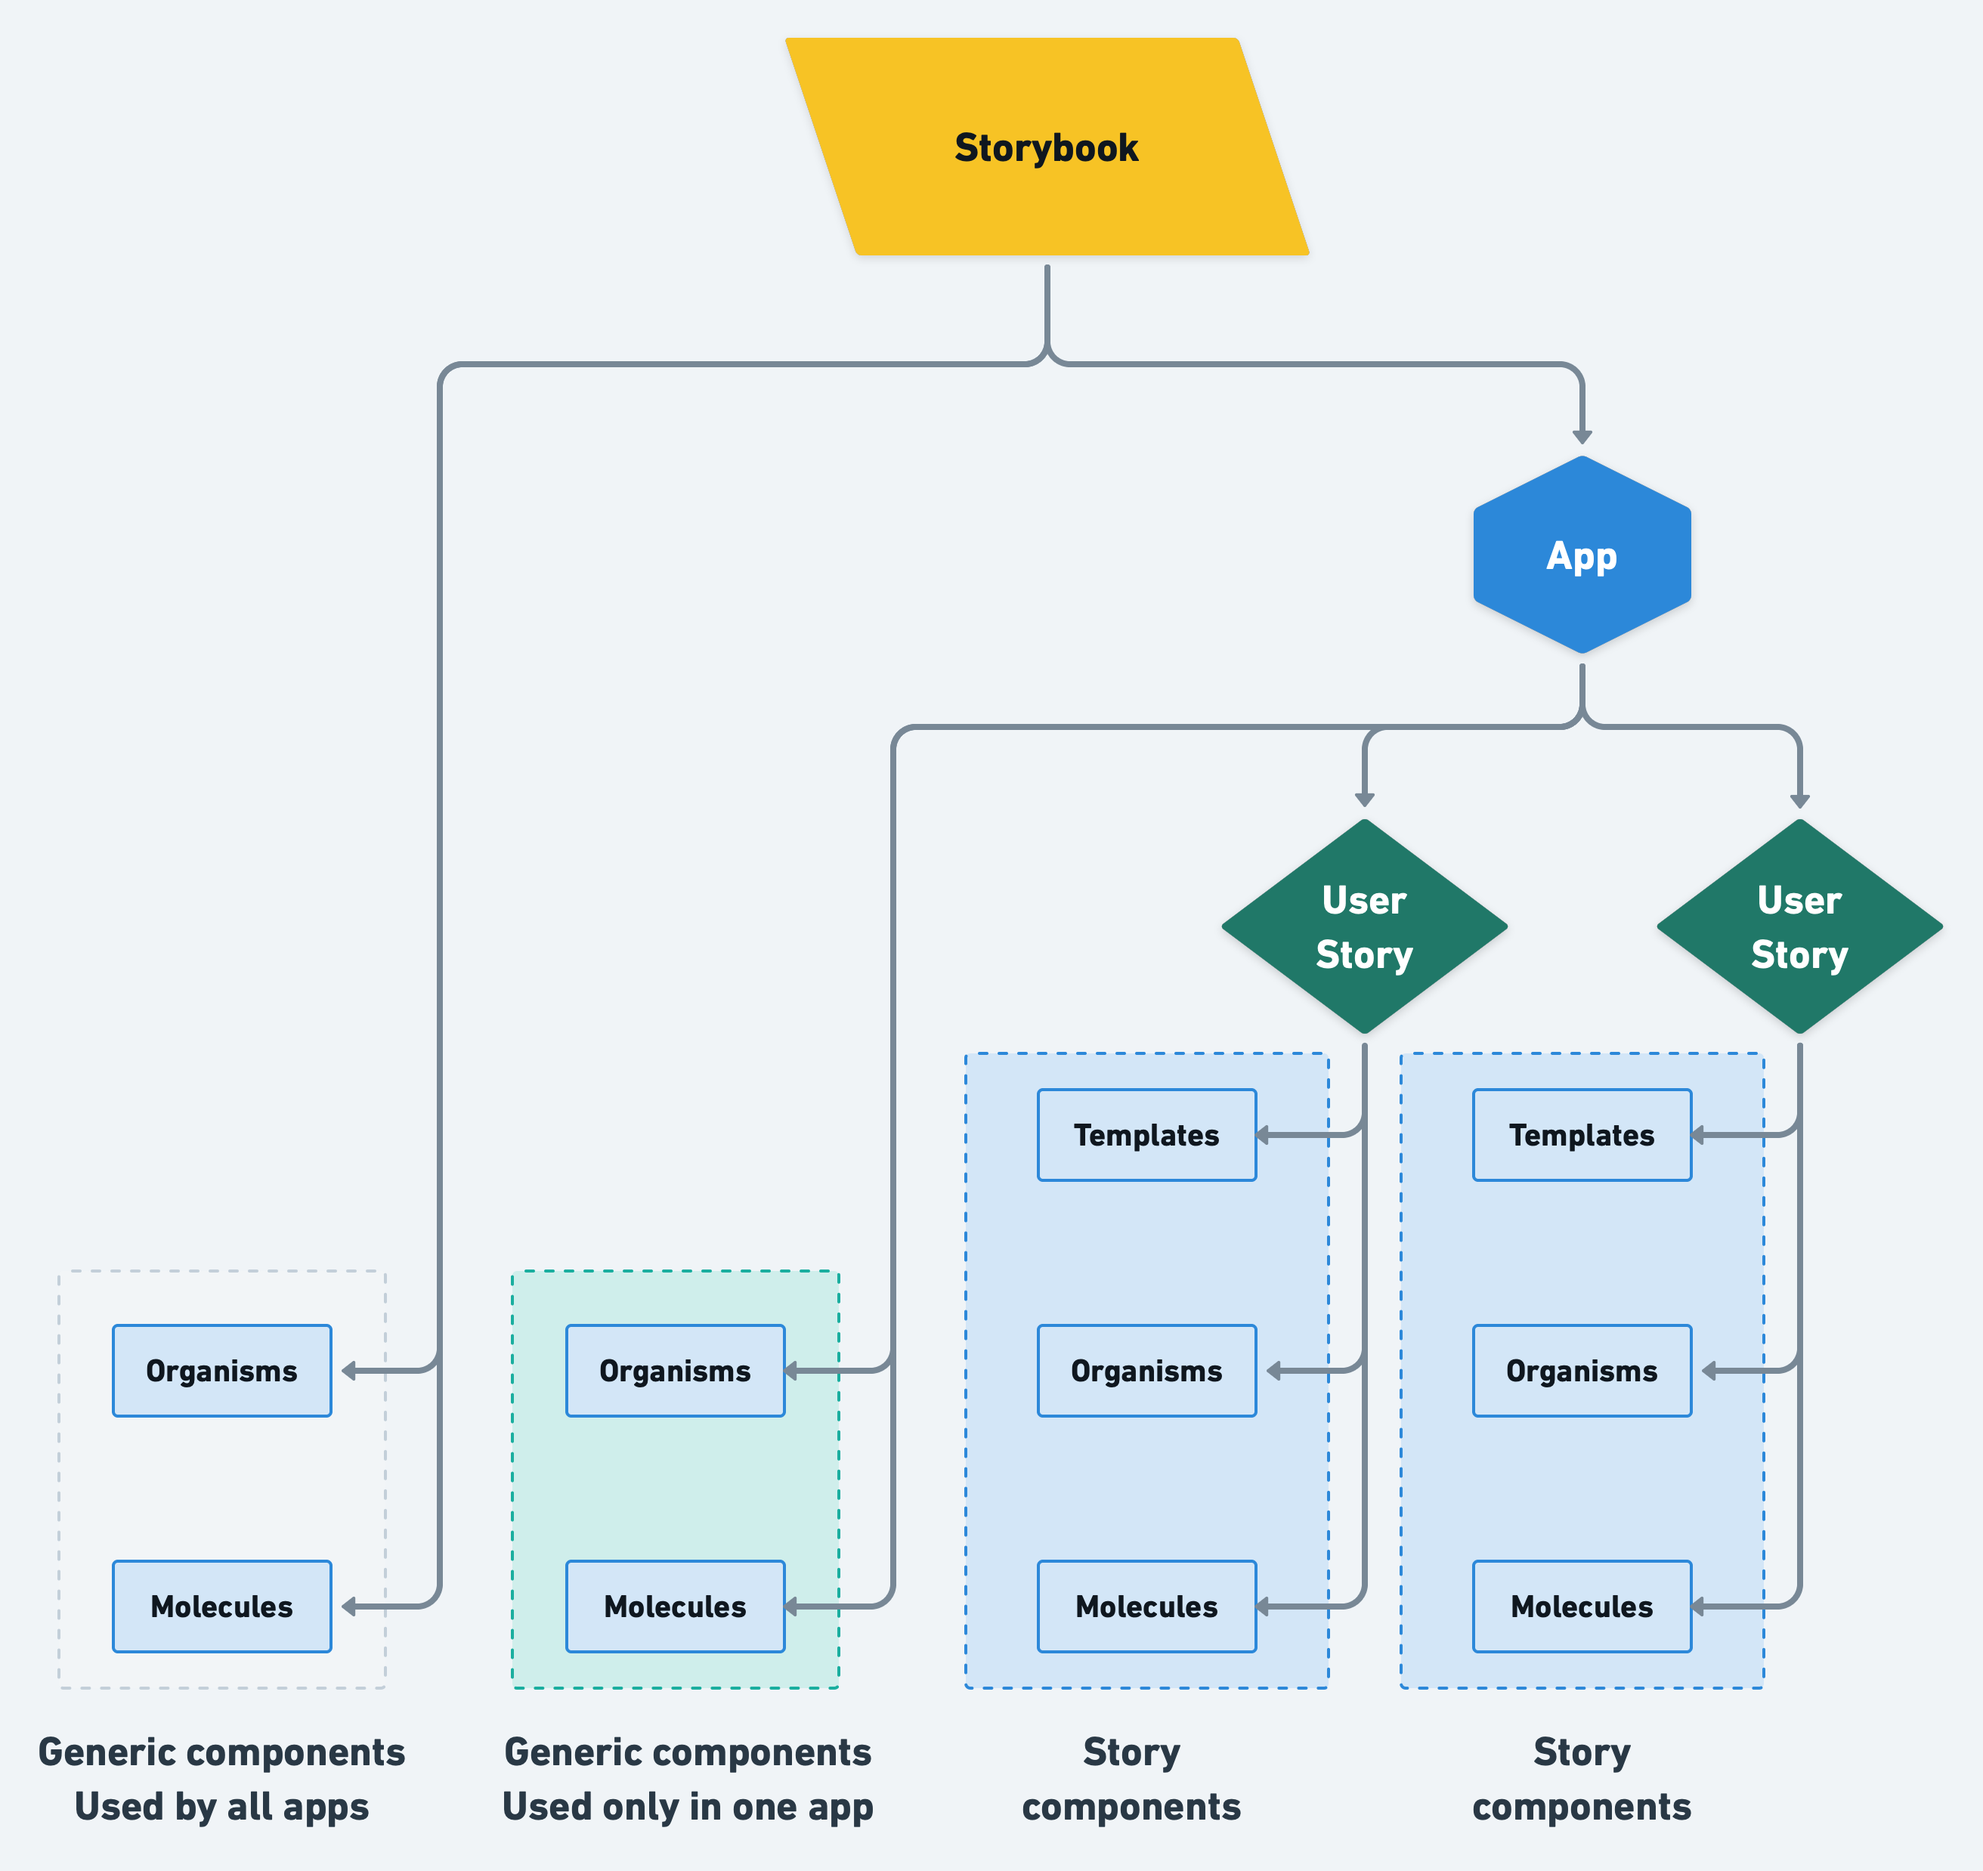
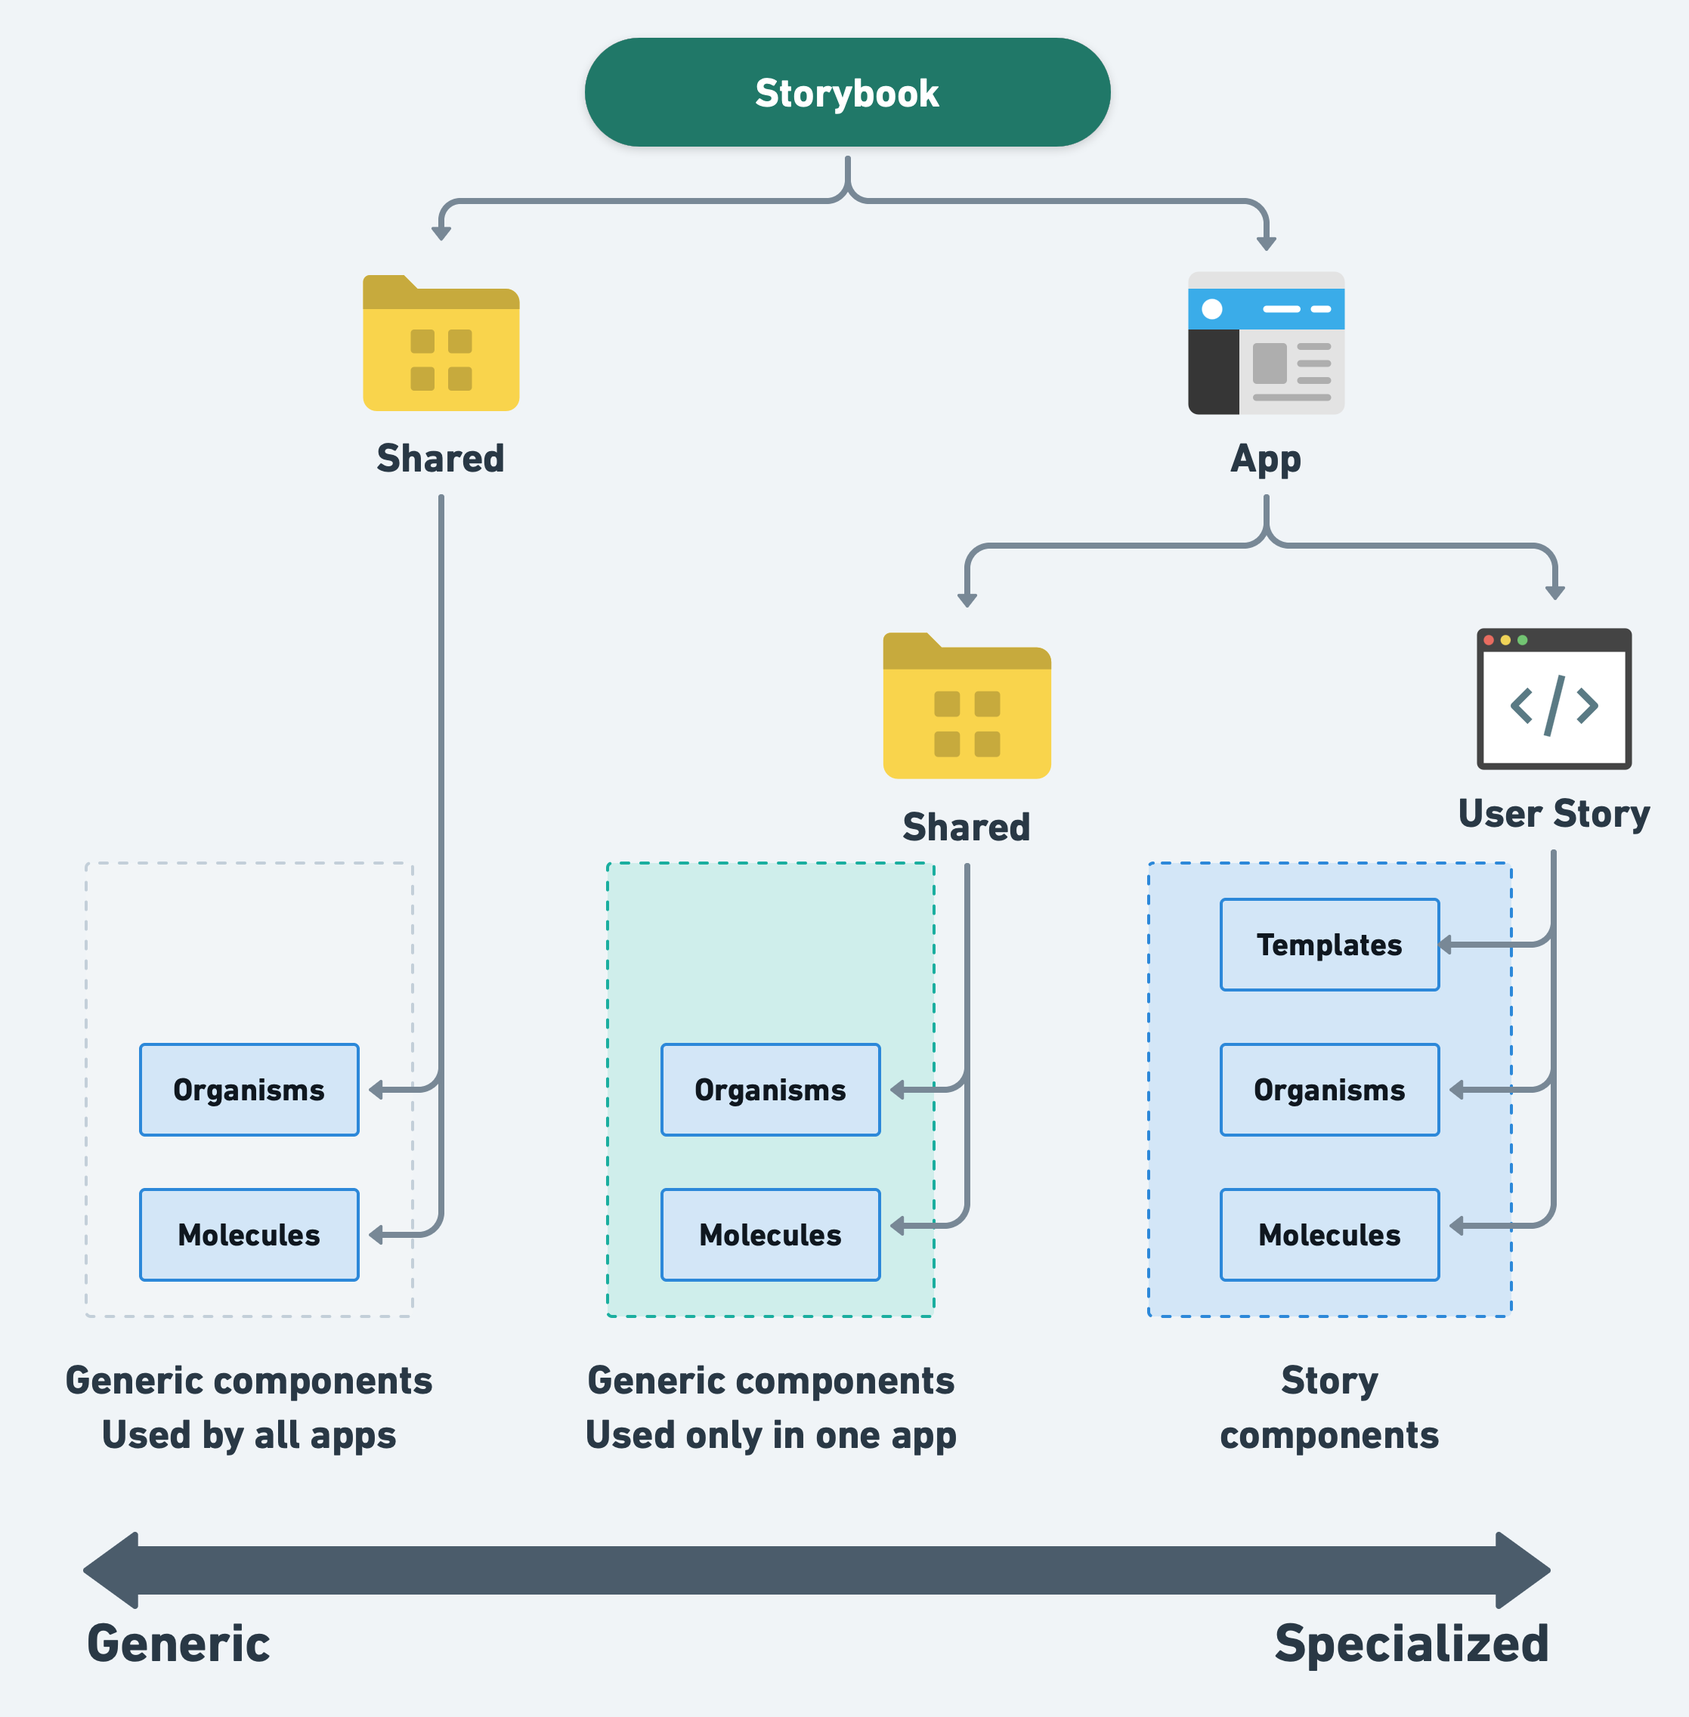
storybook documentation

diff --git a/docs/storybook.md b/docs/storybook.md
@@ -1,9 +1,176 @@
 # ⚡ Storybook
 
-We can use storybook to help both our developers and the product team.
+## 🔶 Why using storybook?
 
--
--
--
+Storybook is a great tool. We can use it to help both developers and our product team.
+
+### 🧿 Better visibility on existing features
+
+It's easier for the dev team to find out if a component already exists and if it fits the new use case we need to implement. Developers can also better understand how a component is meant to be used and if edge cases are taken into account.
+
+### 🧿 Giving visibility to the product team
+
+We can use storybook to demonstrate each part of our work to the product team. The idea is to break down user stories in milestones that can be independently validated.
+
+Let's take an example:
+I was given a signup feature to deliver. We have a few questions to address during the conception phase:
+
+#### 📕 Interactions with our backend(s)
+
+> Which endpoints will be called and what will be their input and output?
+
+#### 📕 Components tree
+
+> Following the [atomic design](./frontend-architecture.md) architecture, what will our component tree look like?
+>
+> ❇ Will we use contexts? Will we use atomic state? Why?
+>
+> ❇ Will we use some generic components or shared hooks, and if so which ones?
+>
+> ❇ Will we need local state? At which level of the tree?
+>
+> ❇ What will be the level of genericity or specialization of each component or hook?
+>
+> > Generic being used in several apps, specialized being used only in that story.
+
+#### 📕 Technical debt
+
+> ❇ Are we sure everything is at the right level? Should we refactor existing code to limit specialization ?
+>
+> > The more specialized code we add, the bigger our codebase becomes. This is usually not desirable because it means our maintenance perimenter is increased. There is cases when factorization is actually a **bad move** however. For example when we are talking about functionally distinct things that will have unrelated maintenance agendas.
+>
+> ❇ Is what we just designed easy to understand and to alter?
+>
+> > `A plan that cannot be changed is a bad one.` and all that sort of things.
+
+etc, etc.
+
+But let's focus on the component tree for now. Doing it allows us to easily define our delivery milestones:
+
+![Diagram](./assets/signup.png)
+
+In our example, and following [this plan](./frontend-architecture.md), we can demonstrate one template (the final delivery), two organisms and two molecules (milestones).
+
+These are the specialized elements for our story while others are generic items that may already exist in our codebase. Of course, if we have to create a generic component, we would have to add it to storybook and get it validated as well then!
+
+## 🔶 Storybook categories
+
+The point is to have only one storybook for all our ecosystem, that may be made of several apps. That storybook will also contain generic components defined in libraries.
+
+We can follow the following diagram to organize stories within storybook:
 
 ![Diagram](./assets/storybook.png)
+
+## 🔶 Setting up storybook
+
+### 🧿 Creating a library
+
+The first step is to create a library with the `@nrwl/node` plugin:
+
+```bash
+pnpm nx g @nrwl/node:lib storybook
+```
+
+### 🧿 Configuring storybook
+
+The next step is to configure storybook. Storybook configuration is defined in a `.storybook` folder that is typically at repo root level. In our case, we will create it in our new library.
+
+### Tweaking storybook config
+
+The main part of the configuration is defined in the `main.js` file. Our goal here is to include the stories of all our apps and our libs. We also need to include static files defined in the `public` folder of next apps and in the `assets` of our libs.
+
+```js
+const tsconfigPathsPlugin = require('tsconfig-paths-webpack-plugin');
+
+/** @type {import("@storybook/react/types/index").StorybookConfig} */
+const storybookMainConfig = {
+  // Defining our add-ons
+  addons: [
+    '@storybook/addon-essentials',
+    '@storybook/addon-viewport',
+    '@storybook/addon-links',
+    'storybook-addon-next-router',
+    'storybook-dark-mode',
+    'storybook-react-i18next',
+  ],
+  // Pulling stories from all the folders of the repo
+  stories: ['../../../../**/*.stories.mdx', '../../../../**/*.stories.tsx'],
+  // Including static files (images for example)
+  staticDirs: [
+    '../../../../apps/front/public',
+    '../../../../libs/front/components/assets',
+  ],
+  webpackFinal: async (config) => {
+    config.resolve.plugins = [
+      ...(config.resolve.plugins || []),
+      // Handling typescript
+      new tsconfigPathsPlugin({
+        configFile: './libs/front/storybook/.storybook/tsconfig.json',
+        extensions: config.resolve.extensions,
+      }),
+    ];
+
+    // [...]
+
+    return config;
+  },
+  features: { emotionAlias: false },
+};
+```
+
+### 🧿 Defining library tasks
+
+Finally, let's define the tasks that can be executed for our library. We want to be able to build storybook and launch it in dev mode. We can use `@nrwl/storybook` for this:
+
+project.json
+
+```json
+{
+  "root": "libs/front/storybook",
+  "projectType": "library",
+  "targets": {
+    "dev": {
+      "executor": "@nrwl/storybook:storybook",
+      "options": {
+        "uiFramework": "@storybook/react",
+        "port": 4400,
+        "config": {
+          "configFolder": "libs/front/storybook/.storybook"
+        }
+      },
+      "configurations": {
+        "ci": {
+          "quiet": true
+        }
+      }
+    },
+    "build": {
+      "executor": "@nrwl/storybook:build",
+      "outputs": ["{options.outputPath}"],
+      "options": {
+        "uiFramework": "@storybook/react",
+        "outputPath": "dist/apps/storybook",
+        "config": {
+          "configFolder": "libs/front/storybook/.storybook"
+        }
+      },
+      "configurations": {
+        "ci": {
+          "quiet": true
+        }
+      }
+    }
+  },
+  "tags": []
+}
+```
+
+Cool. Now we can do:
+
+```bash
+// Launching storybook in watch mode (dev)
+pnpm nx run storybook:dev
+
+// Building storybook
+pnpm nx run storybook:build
+```
